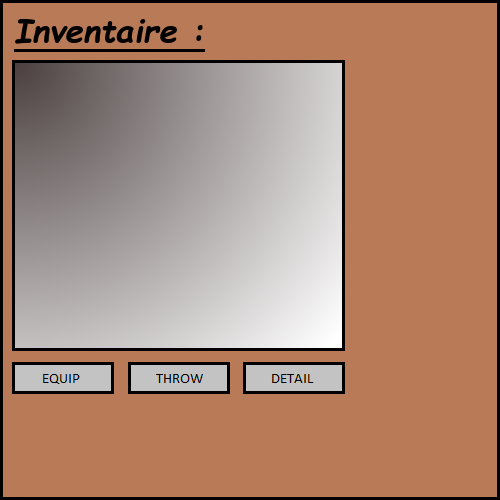
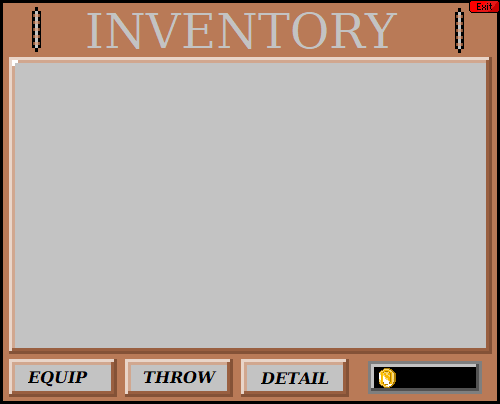
BANG BANG

diff --git a/RPG/src/HUD/inventory/HudInventory.java b/RPG/src/HUD/inventory/HudInventory.java
@@ -7,6 +7,7 @@ import java.awt.Point;
 import java.awt.Rectangle;
 import java.awt.event.MouseEvent;
 import java.awt.event.MouseListener;
+import java.awt.image.AreaAveragingScaleFilter;
 import java.io.File;
 import java.io.IOException;
 import java.util.ArrayList;
@@ -16,12 +17,14 @@ import java.util.Iterator;
 
 import javax.imageio.ImageIO;
 
+import GameState.GameStateManager;
 import dataclasses.DataBase;
 import game.Game;
 import inventory.InventoryKey;
 import inventory.InventoryThread;
 import loot.Loot;
 import playable.Player;
+import playable.PlayerChoice;
 
 public class HudInventory implements MouseListener{
 	
@@ -29,6 +32,7 @@ public class HudInventory implements MouseListener{
 	
 	private ArrayList<Rectangle> clickableArea ;
 	private ArrayList<Rectangle> ActionArea ;
+	private Rectangle echap ;
 	private Rectangle selected = null ;
 	
 	private Point click ;
@@ -51,9 +55,11 @@ public class HudInventory implements MouseListener{
 		Rectangle equip = new Rectangle(Game.WIDTH/2 - 238, Game.HEIGHT/2 + 112, 102, 32);
 		Rectangle throwAway = new Rectangle(Game.WIDTH/2 - 122, Game.HEIGHT/2 + 112, 102, 32);
 		Rectangle detail = new Rectangle(Game.WIDTH/2 - 7, Game.HEIGHT/2 + 112, 102, 32);
+		echap = new Rectangle(Game.WIDTH/2 + 220, Game.HEIGHT/2 - 250, 30, 13);
 		ActionArea.add(equip);
 		ActionArea.add(throwAway);
 		ActionArea.add(detail);
+		ActionArea.add(echap);
 		System.out.println(ActionArea.indexOf(equip));
 	}
 	
@@ -65,13 +71,13 @@ public class HudInventory implements MouseListener{
 		
 		clickableArea = new ArrayList<Rectangle>() ;
 		for(Loot l : hero.getInventory().getDrops()) {
-			Rectangle rDs = new Rectangle(x, y, 19, 19) ;
+			Rectangle rDs = new Rectangle(x, y, 39, 39) ;
 			clickableArea.add(rDs);
 			
-			x += 40 ;
+			x += 60 ;
 			if(x > Game.WIDTH/2 + 80) {
 				x = Game.WIDTH/2 - 229 ;
-				y += 26 ;
+				y += 56 ;
 			}
 		}
 	}
@@ -79,6 +85,7 @@ public class HudInventory implements MouseListener{
 	public void clickableZoneErase() {
 		clickableArea.clear();
 		ActionArea.clear();
+		echap = null; 
 	}
 	
 	public void render(Player hero, Graphics g) {
@@ -88,6 +95,9 @@ public class HudInventory implements MouseListener{
 			g.setColor(Color.BLACK);
 			//g.fillRect(0, 0, Game.WIDTH, Game.HEIGHT);
 			g.drawImage(background, Game.WIDTH/2 -250, Game.HEIGHT/2 - 250, null) ;
+			
+			g.setColor(Color.WHITE);
+			g.drawString(Integer.toString(PlayerChoice.selected().getInventory().getGold()), Game.WIDTH/2 + 180, Game.HEIGHT/2 + 132);
 		
 			for(Loot l : hero.getInventory().getDrops()) {
 				Image lootSprite = null ;
@@ -97,12 +107,12 @@ public class HudInventory implements MouseListener{
 				} catch (IOException e) {}
 				
 				g.drawImage(lootSprite, x, y, null) ;
-				g.drawString("x" + Integer.toString(l.getItemCounter()), x+20, y+20);
+				g.drawString("x" + Integer.toString(l.getItemCounter()), x+40, y+40);
 				
-				x += 40 ;
-				if(x > Game.WIDTH/2 + 80) {
+				x += 60 ;
+				if(x > Game.WIDTH/2 + 230) {
 					x = Game.WIDTH/2 - 229 ;
-					y += 26 ;
+					y += 56 ;
 				}
 			}
 			
@@ -111,7 +121,6 @@ public class HudInventory implements MouseListener{
 				g.drawRect(selected.x, selected.y, selected.width, selected.height);
 			}
 			
-		
 	}
 	
 	public void selection(Player hero, Point e, Rectangle w, int index) {
@@ -132,6 +141,13 @@ public class HudInventory implements MouseListener{
 		}
 	}
 	
+	public void echap() {
+		clickableZoneErase();
+		GameStateManager.setState(GameStateManager.INGAMESTATE);
+		searchState = 0 ;
+		
+	}
+	
 	public void checking(Player hero) {
 		if(searchState == 1) {
 			for(Rectangle w : clickableArea) {
@@ -139,6 +155,9 @@ public class HudInventory implements MouseListener{
 			}
 			for(Rectangle a : ActionArea) {
 				action(hero, click, a, ActionArea.indexOf(a));
+			}
+			if(echap.contains(click)) {
+				echap() ;
 			}
 		}
 		searchState = 0 ;

diff --git a/RPG/src/inventory/Inventory.java b/RPG/src/inventory/Inventory.java
@@ -26,7 +26,7 @@ public class Inventory {
 		weapon = null ;
 		this.size = size ;
 		this.sizeMax = sizeMax ;
-		gold = 0 ;
+		gold = 1 ;
 	}
 
 	public int getGold() {

diff --git a/RPG/src/HUD/inventory/HudDetail.java b/RPG/src/HUD/inventory/HudDetail.java
@@ -1,0 +1,5 @@
+package HUD.inventory;
+
+public class HudDetail {
+
+}
